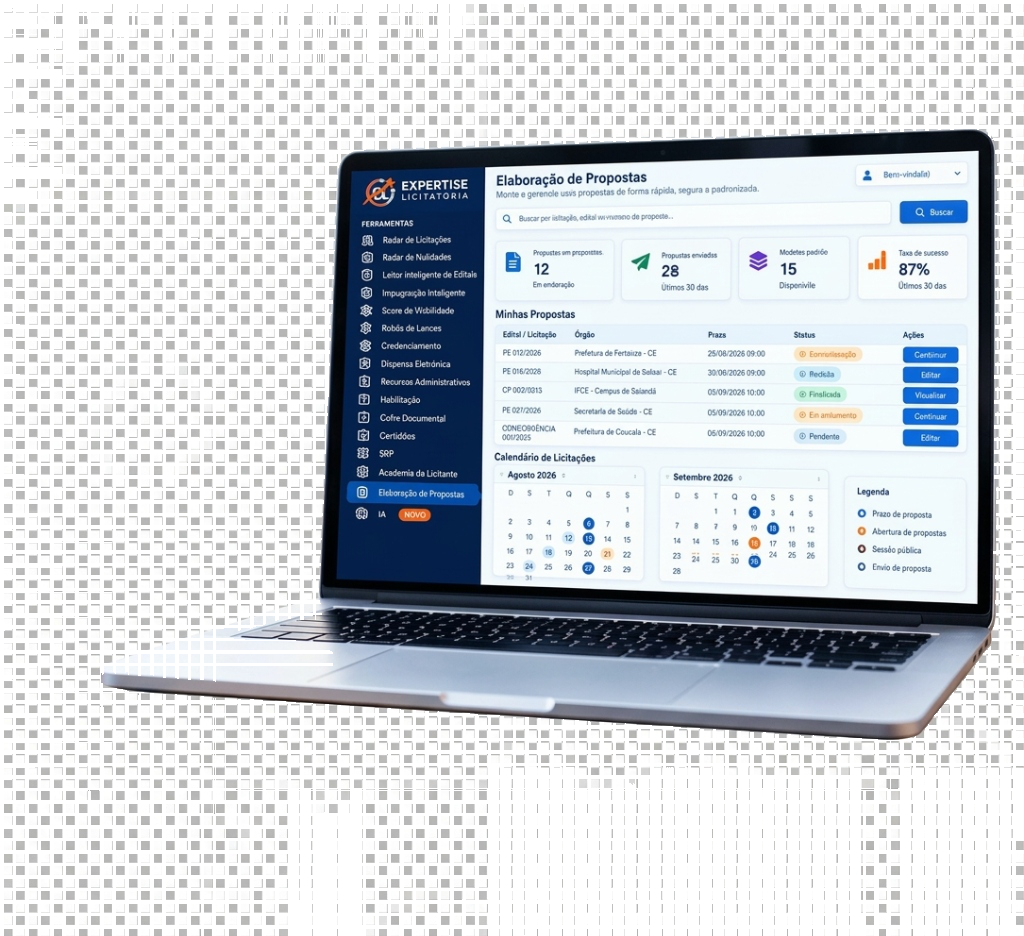
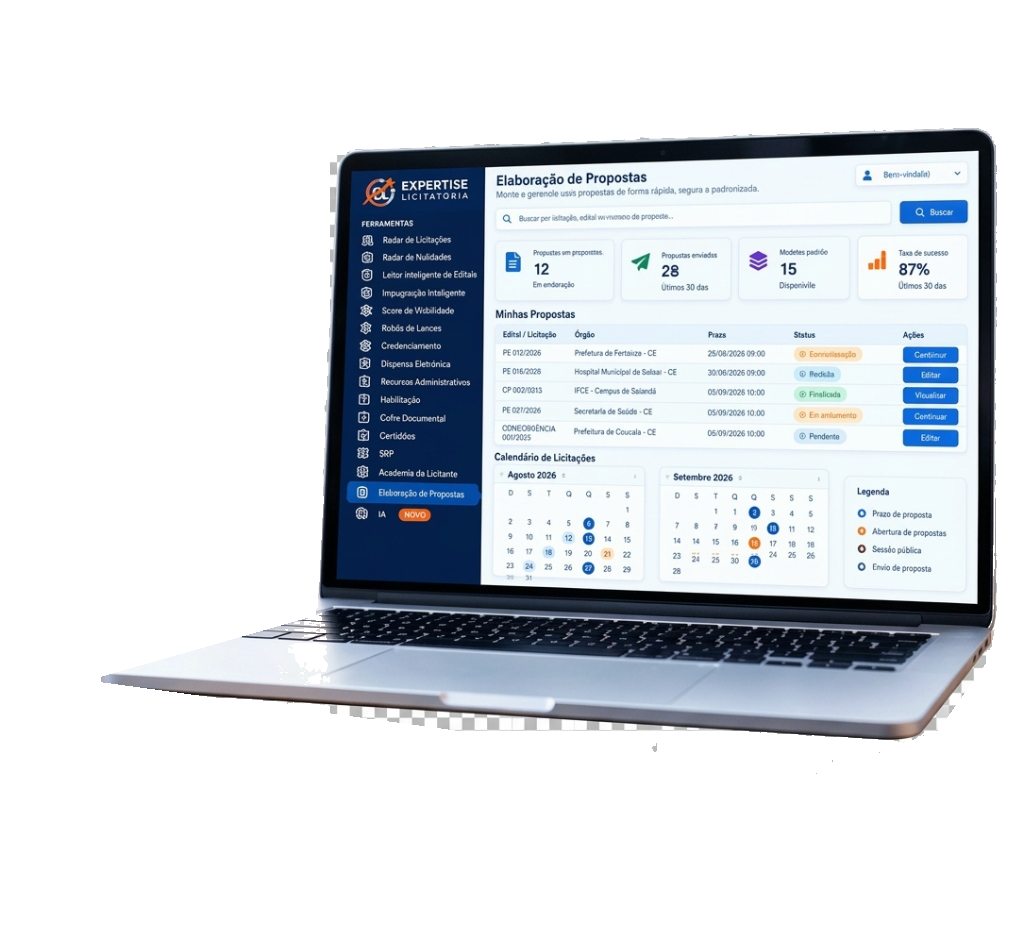
fix: remover fundo do laptop e retirar textos repetitivos da landing page

Changed region(s): [[0.0, 0.0, 1.0, 1.0], [0.9688, 0.8985, 1.0, 0.9915]]

diff --git a/frontend/src/pages/LandingPage.tsx b/frontend/src/pages/LandingPage.tsx
@@ -11,8 +11,7 @@ import {
    X,
    ArrowRight,
    ShieldCheck,
-   Calculator,
-   Briefcase
+   Calculator
 } from '@phosphor-icons/react';
 import { useNavigate } from 'react-router-dom';
 
@@ -205,11 +204,6 @@ export default function LandingPage() {
                   {/* Texto Principal */}
                   <motion.div initial={{ opacity: 0, y: 20 }} animate={{ opacity: 1, y: 0 }} transition={{ duration: 0.5 }} className="lg:col-span-7 space-y-6">
                      
-                     <div className="inline-flex items-center gap-2 rounded-full border border-orange-200 bg-orange-50 px-4 py-1.5 text-xs font-bold uppercase tracking-wider text-[#EA580C]">
-                        <Briefcase weight="bold" className="w-4 h-4" />
-                        <span>Para quem vende ou quer vender para o governo</span>
-                     </div>
-
                      <h1 className="text-3xl sm:text-4xl lg:text-5xl font-black text-[#0A2540] tracking-tight leading-[1.15]">
                         Pare de perder licitações por <span className="text-[#EA580C]">certidão vencida</span> ou por vender barato demais.
                      </h1>
@@ -357,9 +351,6 @@ export default function LandingPage() {
             <div className="max-w-7xl mx-auto space-y-14">
                
                <div className="text-center max-w-3xl mx-auto space-y-3">
-                  <span className="text-xs font-bold uppercase tracking-widest text-[#EA580C] block">
-                     Simples e Direto ao Ponto
-                  </span>
                   <h2 className="text-2xl sm:text-3xl lg:text-4xl font-black text-[#0A2540] tracking-tight">
                      Tudo o que você precisa em quatro etapas práticas.
                   </h2>
@@ -410,9 +401,6 @@ export default function LandingPage() {
             <div className="max-w-7xl mx-auto space-y-12">
                
                <div className="text-center max-w-3xl mx-auto space-y-3">
-                  <span className="text-xs font-bold uppercase tracking-widest text-slate-500 block">
-                     Comparação Direta
-                  </span>
                   <h2 className="text-2xl sm:text-3xl lg:text-4xl font-black text-[#0A2540] tracking-tight">
                      Disputar licitações no improviso vs. Com a Expertise
                   </h2>
